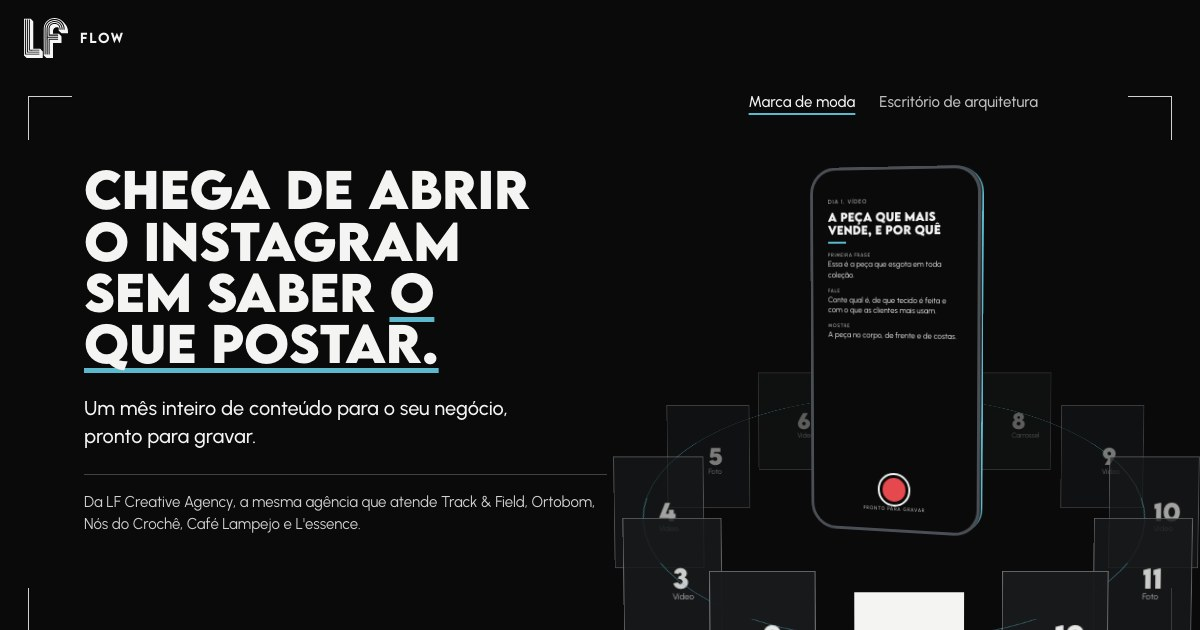
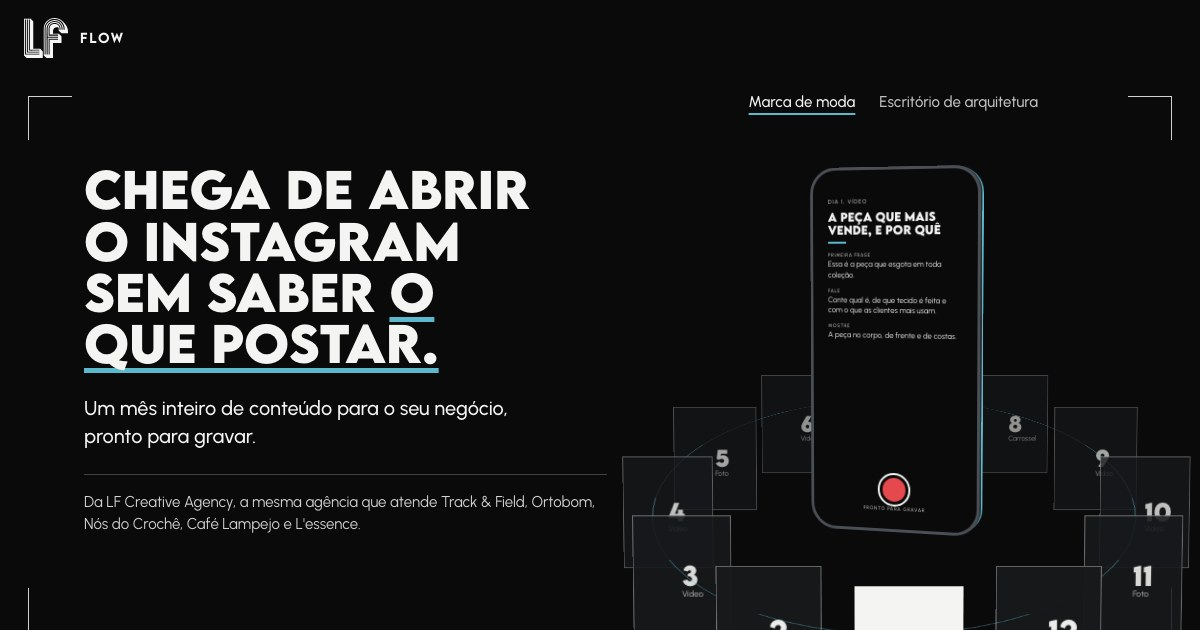
LP do LF Flow: indicação em cartões 3D, botão da abertura leva aos planos, barra fixa no celular e ajustes de acessibilidade

diff --git a/flow/flow.js b/flow/flow.js
@@ -63,7 +63,7 @@ document.addEventListener('DOMContentLoaded', () => {
 
   // ---- A órbita ----
   // Os 12 cartões giram em volta do celular. O dia escolhido vem para a frente e o roteiro dele aparece na tela.
-  // Sozinha, a órbita avança um dia a cada 3,2 s; quando a pessoa escolhe um dia, ela espera 15 s antes de voltar a andar.
+  // Sozinha, a órbita avança um dia a cada 3,2 s, dá uma volta e para. Quando a pessoa escolhe um dia, ela assume o controle.
   let dia = 0, escolhe = (i) => { dia = i; mostra(i); };
   const orbita = () => {
     const cena = document.getElementById('orbita');
@@ -71,7 +71,7 @@ document.addEventListener('DOMContentLoaded', () => {
     const cartoes = [...grade.querySelectorAll('.dia')];
     const n = cartoes.length, inclina = 72 * Math.PI / 180;
     const parado = window.matchMedia('(prefers-reduced-motion: reduce)').matches;
-    let pos = 0, visivel = true, pausaAte = 0, t0 = performance.now(), ultimoPasso = t0, raio = 150;
+    let pos = 0, visivel = true, pausaAte = 0, t0 = performance.now(), ultimoPasso = t0, raio = 150, passosSozinha = 0, sozinha = true;
     const mede = () => { raio = Math.min(cena.clientWidth * (cena.clientWidth < 420 ? .47 : .56), cena.clientHeight * .5); cena.style.setProperty('--raio', `${raio.toFixed(0)}px`); };
     const sai = (x) => 1 - Math.pow(1 - Math.min(1, Math.max(0, x)), 3);
     const desenha = (agora) => {
@@ -83,7 +83,7 @@ document.addEventListener('DOMContentLoaded', () => {
         const a = Math.PI / 2 + (i - pos) * (2 * Math.PI / n);
         const x = Math.cos(a) * raio * entrada, p = Math.sin(a) * raio * entrada;
         c.style.transform = `translate3d(${x.toFixed(1)}px, ${(p * Math.cos(inclina)).toFixed(1)}px, ${(p * Math.sin(inclina)).toFixed(1)}px)`;
-        c.style.opacity = (entrada * (.3 + .7 * (Math.sin(a) + 1) / 2)).toFixed(2);
+        c.style.opacity = (entrada * (.55 + .45 * (Math.sin(a) + 1) / 2)).toFixed(2);
       });
       fone.style.setProperty('--fy', `${(-16 + (parado ? 0 : Math.sin(t * .45) * 7) + (1 - entrada) * 70).toFixed(2)}deg`);
       fone.style.setProperty('--sobe', `${((1 - entrada) * 90).toFixed(1)}px`);
@@ -91,14 +91,14 @@ document.addEventListener('DOMContentLoaded', () => {
     };
     const laco = (agora) => {
       if (visivel && !document.hidden) {
-        if (!parado && agora > pausaAte && agora - ultimoPasso > 3200) { ultimoPasso = agora; dia = (dia + 1) % n; mostra(dia); }
+        if (!parado && sozinha && agora > pausaAte && agora - ultimoPasso > 3200) { ultimoPasso = agora; dia = (dia + 1) % n; mostra(dia); passosSozinha += 1; if (passosSozinha >= n) sozinha = false; }
         desenha(agora);
       }
       if (!parado) requestAnimationFrame(laco);
     };
     escolhe = (i, daPessoa) => {
       dia = i; mostra(i);
-      if (daPessoa) pausaAte = performance.now() + 15000;
+      if (daPessoa) sozinha = false;
       if (parado) desenha(performance.now());
     };
     cena.addEventListener('pointerenter', () => { pausaAte = Math.max(pausaAte, performance.now() + 4000); });
@@ -113,7 +113,7 @@ document.addEventListener('DOMContentLoaded', () => {
     mes.forEach((item, i) => {
       const botao = Object.assign(document.createElement('button'), { type: 'button', className: 'dia' });
       botao.setAttribute('aria-pressed', 'false');
-      botao.setAttribute('aria-label', `Dia ${i + 1}, ${item.tipo}: ${item.titulo}`);
+      botao.setAttribute('aria-label', `${i + 1} ${item.tipo}. ${item.titulo}`);
       botao.append(
         Object.assign(document.createElement('span'), { className: 'dia-numero', textContent: String(i + 1) }),
         Object.assign(document.createElement('span'), { textContent: item.tipo }),
@@ -127,7 +127,7 @@ document.addEventListener('DOMContentLoaded', () => {
     trocas.forEach((b) => b.addEventListener('click', () => {
       mes = meses[b.dataset.mes];
       trocas.forEach((o) => o.setAttribute('aria-pressed', String(o === b)));
-      grade.querySelectorAll('.dia').forEach((d, i) => d.setAttribute('aria-label', `Dia ${i + 1}, ${mes[i].tipo}: ${mes[i].titulo}`));
+      grade.querySelectorAll('.dia').forEach((d, i) => d.setAttribute('aria-label', `${i + 1} ${mes[i].tipo}. ${mes[i].titulo}`));
       escolhe(0, true);
     }));
   }
@@ -141,7 +141,7 @@ document.addEventListener('DOMContentLoaded', () => {
     const semMovimento = window.matchMedia('(prefers-reduced-motion: reduce)').matches;
     const largo = window.matchMedia('(min-width: 1024px)');
     const atual = document.getElementById('recebe-atual');
-    let passo = 0, pausa = 0, naTela = false;
+    let passo = 0, pausa = 0, naTela = false, trocas = 0;
     const ativa = (i) => {
       passo = i;
       itens.forEach((el, n) => el.classList.toggle('on', n === i));
@@ -151,13 +151,13 @@ document.addEventListener('DOMContentLoaded', () => {
     };
     entregas.classList.add('passo-a-passo');
     ativa(0);
-    itens.forEach((el, i) => el.addEventListener('click', () => { ativa(i); pausa = performance.now() + 12000; }));
+    itens.forEach((el, i) => el.addEventListener('click', () => { ativa(i); pausa = Infinity; }));
     if ('IntersectionObserver' in window) {
       const meio = new IntersectionObserver((es) => es.forEach((e) => { if (e.isIntersecting && largo.matches) ativa(itens.indexOf(e.target)); }), { rootMargin: '-45% 0px -45% 0px' });
       itens.forEach((el) => meio.observe(el));
       new IntersectionObserver(([e]) => { naTela = e.isIntersecting; }, { threshold: .25 }).observe(entregas);
     }
-    if (!semMovimento) setInterval(() => { if (!largo.matches && naTela && !document.hidden && performance.now() > pausa) ativa((passo + 1) % itens.length); }, 2800);
+    if (!semMovimento) setInterval(() => { if (!largo.matches && naTela && !document.hidden && performance.now() > pausa && trocas < itens.length * 2) { trocas += 1; ativa((passo + 1) % itens.length); } }, 2800);
   }
 
   // ---- Aviso de cookies e Meta Pixel ----
@@ -272,6 +272,30 @@ document.addEventListener('DOMContentLoaded', () => {
     });
   }, { rootMargin: '0px 0px -10% 0px', threshold: 0.1 });
   document.querySelectorAll('.revela, .entra').forEach((el) => observador.observe(el));
+
+  // Indicação: tocar no cartão N vira os N primeiros e mostra o que a pessoa ganha (regras dos termos, cláusula 12).
+  // Quando a seção entra na tela, os três viram sozinhos uma vez, para mostrar o melhor caso.
+  const amigos = document.getElementById('amigos');
+  if (amigos) {
+    const cartoes = [...amigos.querySelectorAll('.amigo')], resultado = document.getElementById('amigos-resultado');
+    const frases = [
+      'Toque em um cartão para ver o que você ganha.',
+      '1 amigo: você ganha 1 mês grátis quando ele pagar o segundo mês.',
+      '2 amigos: são 2 meses grátis para você.',
+      '3 amigos ativos ao mesmo tempo: o seu Flow sai de graça enquanto os três ficarem.',
+    ];
+    let quantos = 0;
+    const marca = (n) => {
+      quantos = n;
+      cartoes.forEach((c, i) => c.setAttribute('aria-pressed', String(i < n)));
+      resultado.textContent = frases[n];
+    };
+    cartoes.forEach((c, i) => c.addEventListener('click', () => marca(quantos === i + 1 ? i : i + 1)));
+    if ('IntersectionObserver' in window) {
+      const olho = new IntersectionObserver(([e]) => { if (!e.isIntersecting) return; olho.disconnect(); setTimeout(() => { if (quantos === 0) marca(3); }, 500); }, { threshold: .6 });
+      olho.observe(amigos);
+    }
+  }
 
   // Garantia: o 7 ganha espessura (camadas empilhadas para trás) e gira conforme a seção atravessa a tela
   const sete = document.querySelector('#sete .sete-n');

diff --git a/flow/flow.css b/flow/flow.css
@@ -65,7 +65,7 @@ h1, h2, h3 {
   text-transform: uppercase; line-height: 1.08; letter-spacing: -0.005em; text-wrap: balance;
 }
 h1 { font-size: clamp(1.625rem, 1rem + 2.7vw, 3.25rem); line-height: 1.06; }
-h2 { font-size: clamp(1.5rem, 1rem + 2.2vw, 2.875rem); }
+h2 { font-size: clamp(1.75rem, 1rem + 2.2vw, 2.875rem); }
 h3 { font-size: 1.125rem; font-weight: 500; letter-spacing: .02em; line-height: 1.3; }
 p { text-wrap: pretty; }
 
@@ -132,6 +132,9 @@ a:focus-visible, button:focus-visible, summary:focus-visible { outline: 2px soli
 .btn-conversa svg { flex: none; }
 [data-tom="escuro"] .btn-conversa { background: var(--cor-gelo); color: var(--cor-preto); border-color: var(--cor-gelo); }
 [data-conversa="off"] .btn-conversa { opacity: 0; visibility: hidden; pointer-events: none; transition: opacity 350ms ease, visibility 0s 350ms; }
+
+/* Barra fixa do celular (no computador fica o botão flutuante de WhatsApp) */
+.barra-planos { display: none; }
 
 /* ---------- Visor de câmera: cantos de enquadramento e REC ---------- */
 .hud { position: absolute; inset: 0; pointer-events: none; color: var(--tinta); font: 500 .75rem/1 ui-monospace, 'SF Mono', Menlo, monospace; letter-spacing: .12em; }
@@ -286,6 +289,24 @@ a:focus-visible, button:focus-visible, summary:focus-visible { outline: 2px soli
 .pares p, .indicacao-texto { max-width: 34rem; }
 .indicacao-texto { font-size: 1.125rem; color: var(--tinta); }
 
+/* Indicação: três cartões que viram em 3D. Frente: quantos amigos. Verso: o que a pessoa ganha. */
+#indicacao h2 + .indicacao-texto { margin-top: var(--e-3); }
+.amigos { display: grid; gap: var(--e-3); }
+.amigos-linha { display: grid; grid-template-columns: repeat(3, 1fr); gap: 12px; perspective: 1100px; max-width: 34rem; }
+.amigo { aspect-ratio: 4 / 5; padding: 0; background: none; border: 0; cursor: pointer; color: inherit; }
+.amigo-vira { position: relative; display: block; width: 100%; height: 100%; transform-style: preserve-3d; transition: transform 700ms var(--curva); }
+.amigo[aria-pressed="true"] .amigo-vira { transform: rotateY(180deg); }
+.amigo:nth-child(2) .amigo-vira { transition-delay: 90ms; }
+.amigo:nth-child(3) .amigo-vira { transition-delay: 180ms; }
+.amigo-frente, .amigo-verso { position: absolute; inset: 0; display: flex; flex-direction: column; justify-content: space-between; align-items: flex-start; padding: 12%; text-align: left; backface-visibility: hidden; -webkit-backface-visibility: hidden; font-size: clamp(.8125rem, .6rem + .6vw, 1rem); line-height: 1.2; }
+.amigo-frente { background: rgba(244, 244, 242, .06); border: 1px solid rgba(244, 244, 242, .42); color: var(--tinta-2); }
+.amigo-verso { transform: rotateY(180deg); background: var(--cor-gelo); color: var(--cor-preto); font-weight: 500; }
+.amigo b { font-family: var(--fonte-titulo); font-weight: 700; font-size: clamp(1.75rem, 1rem + 3vw, 3.25rem); line-height: 1; color: var(--tinta); }
+.amigo-verso b { color: var(--cor-preto); }
+.amigo:nth-child(3) .amigo-verso b { font-size: clamp(1.25rem, .8rem + 2vw, 2.375rem); background: linear-gradient(var(--cor-ciano), var(--cor-ciano)) 0 100% / 100% .12em no-repeat; padding-bottom: .12em; }
+.amigo:hover .amigo-frente { border-color: var(--cor-gelo); }
+.amigos-resultado { min-height: 3.2em; max-width: 30rem; font-size: 1.125rem; color: var(--tinta); }
+
 /* Garantia: um 7 em relevo, com espessura de verdade (camadas empilhadas em profundidade), que gira com a rolagem */
 .garantia-grade { display: grid; gap: var(--e-4); align-items: center; }
 .sete { display: flex; align-items: flex-end; gap: var(--e-2); perspective: 900px; justify-self: start; }
@@ -416,8 +437,16 @@ a:focus-visible, button:focus-visible, summary:focus-visible { outline: 2px soli
   .hud-rec { top: 30px; left: auto; right: var(--margem); transform: none; }
   .cabecalho { padding: 0 var(--margem); height: 68px; }
   .marca img { height: 34px; }
-  .btn-conversa { right: 16px; bottom: 36px; width: 48px; min-height: 48px; padding: 0; gap: 0; justify-content: center; }
-  .btn-conversa span { position: absolute; width: 1px; height: 1px; overflow: hidden; clip-path: inset(50%); }
+  .btn-conversa, .passos { display: none !important; }   /* no celular a barra dos planos ocupa o pé */
+  .barra-planos {
+    position: fixed; z-index: 61; left: 0; right: 0; bottom: 0; display: flex; align-items: center; justify-content: space-between; gap: var(--e-2);
+    padding: 8px 12px 8px var(--margem); background: var(--cor-gelo); color: var(--cor-preto); border-top: 1px solid var(--cor-preto);
+    font-size: .9375rem; font-weight: 500; transition: transform 350ms var(--curva), visibility 0s;
+  }
+  .barra-planos .btn { background: var(--cor-preto); color: var(--cor-gelo); border-color: var(--cor-preto); }
+  .barra-planos .btn::after { content: "\2193"; }
+  .barra-planos a:focus-visible { outline: 2px solid var(--cor-preto); outline-offset: 2px; }
+  [data-conversa="off"] .barra-planos { transform: translateY(100%); visibility: hidden; transition: transform 350ms var(--curva), visibility 0s 350ms; }
   .passos { left: 12px; right: 12px; bottom: 6px; }
   .passos::before { top: 24px; bottom: -6px; }
   .marca { transition: opacity 250ms ease; }

diff --git a/flow/index.html b/flow/index.html
@@ -29,7 +29,7 @@
 <link rel="preload" href="assets/fonts/lemonmilk-bold.woff2" as="font" type="font/woff2" crossorigin>
 <link rel="preload" href="assets/fonts/urbanist-latin.woff2" as="font" type="font/woff2" crossorigin>
 
-<link rel="stylesheet" href="flow.css?v=2026-10-13m">
+<link rel="stylesheet" href="flow.css?v=2026-10-13o">
 <!-- O Meta Pixel "LP FLOW" (2266283787124186) é carregado pelo flow.js, só depois do aceite no aviso de cookies. -->
 </head>
 <body>
@@ -44,6 +44,12 @@
   <a class="btn btn-conversa" data-cta="topo_whatsapp" href="https://wa.me/5521990939118?text=Oi!%20Vi%20a%20p%C3%A1gina%20do%20LF%20Flow%20e%20quero%20saber%20como%20come%C3%A7ar." target="_blank" rel="noopener"><svg viewBox="0 0 24 24" width="18" height="18" aria-hidden="true"><path fill="none" stroke="currentColor" stroke-width="1.8" stroke-linejoin="round" d="M4 5h16v11H10l-6 4z"/></svg><span>Falar no WhatsApp</span></a>
 </header>
 
+<!-- Barra fixa do celular: leva aos planos. Some na abertura, nos planos e no fechamento, que já têm botão. -->
+<div class="barra-planos">
+  <span>A partir de R$ 697 por mês</span>
+  <a class="btn btn-compacto" data-cta="barra_planos" href="#planos">Ver planos</a>
+</div>
+
 <main id="conteudo">
 
 <!-- 1. ABERTURA -->
@@ -54,7 +60,7 @@
       <h1>Chega de abrir o Instagram sem saber <em>o que postar.</em></h1>
       <p class="apoio">Um mês inteiro de conteúdo para o seu negócio, pronto para gravar.</p>
       <p class="detalhe">Todo mês você recebe as ideias, os roteiros e as legendas do seu Instagram, feitos para o seu negócio. É só gravar no celular e publicar.</p>
-      <a class="btn" data-cta="abertura_whatsapp" href="https://wa.me/5521990939118?text=Oi!%20Vi%20a%20p%C3%A1gina%20do%20LF%20Flow%20e%20quero%20saber%20como%20come%C3%A7ar." target="_blank" rel="noopener">Quero meu mês de conteúdo</a>
+      <a class="btn" data-cta="abertura_planos" href="#planos">Quero meu mês de conteúdo</a>
       <p class="condicoes">A partir de R$ 697 por mês. Sem fidelidade. 7 dias de garantia.</p>
       <p class="credencial">Da LF Creative Agency, a mesma agência que atende Track &amp; Field, Ortobom, Nós do Crochê, Café Lampejo e L'essence.</p>
     </div>
@@ -275,11 +281,21 @@
   </div>
 </section>
 
-<!-- 8. INDICAÇÃO -->
+<!-- 8. INDICAÇÃO: três cartões que viram conforme o número de amigos, mostrando o que a pessoa ganha -->
 <section class="cena cena-escura cena-baixa" id="indicacao">
   <div class="container duas">
-    <h2 class="revela">Indique um amigo e ganhe <em>um mês</em></h2>
-    <p class="indicacao-texto revela">Quem assina pelo seu link ganha R$ 200 de desconto no primeiro mês. Quando ele pagar o segundo, você ganha um mês grátis. Com três amigos ativos, o seu Flow sai de graça.</p>
+    <div class="revela">
+      <h2>Indique um amigo e ganhe <em>um mês</em></h2>
+      <p class="indicacao-texto">Quem assina pelo seu link ganha R$ 200 de desconto no primeiro mês. Quando ele pagar o segundo, você ganha um mês grátis. Com três amigos ativos, o seu Flow sai de graça.</p>
+    </div>
+    <div class="amigos" id="amigos">
+      <div class="amigos-linha" role="group" aria-label="Quantos amigos você indicou">
+        <button type="button" class="amigo" aria-pressed="false" aria-label="1 amigo"><span class="amigo-vira"><span class="amigo-frente"><b>1</b>amigo</span><span class="amigo-verso"><b>1</b>mês grátis</span></span></button>
+        <button type="button" class="amigo" aria-pressed="false" aria-label="2 amigos"><span class="amigo-vira"><span class="amigo-frente"><b>2</b>amigos</span><span class="amigo-verso"><b>2</b>meses grátis</span></span></button>
+        <button type="button" class="amigo" aria-pressed="false" aria-label="3 amigos"><span class="amigo-vira"><span class="amigo-frente"><b>3</b>amigos</span><span class="amigo-verso"><b>R$ 0</b>Flow de graça</span></span></button>
+      </div>
+      <p class="amigos-resultado" id="amigos-resultado" aria-live="polite">Toque em um cartão para ver o que você ganha.</p>
+    </div>
   </div>
 </section>
 
@@ -358,6 +374,6 @@
   </div>
 </div>
 
-<script src="flow.js?v=2026-10-13m" defer></script>
+<script src="flow.js?v=2026-10-13o" defer></script>
 </body>
 </html>

diff --git a/flow/privacidade/index.html b/flow/privacidade/index.html
@@ -9,7 +9,7 @@
 <link rel="canonical" href="https://lfcreative.com.br/flow/privacidade/">
 <link rel="icon" href="../../favicon.ico" sizes="any">
 <link rel="icon" type="image/png" sizes="32x32" href="../../favicon-32x32.png">
-<link rel="stylesheet" href="../flow.css?v=2026-10-13m">
+<link rel="stylesheet" href="../flow.css?v=2026-10-13o">
 </head>
 <body>
 <a class="pular" href="#conteudo">Pular para o conteúdo</a>

diff --git a/flow/obrigado/index.html b/flow/obrigado/index.html
@@ -11,7 +11,7 @@
 <link rel="canonical" href="https://lfcreative.com.br/flow/obrigado/">
 <link rel="icon" href="../../favicon.ico" sizes="any">
 <link rel="icon" type="image/png" sizes="32x32" href="../../favicon-32x32.png">
-<link rel="stylesheet" href="../flow.css?v=2026-10-13m">
+<link rel="stylesheet" href="../flow.css?v=2026-10-13o">
 </head>
 <body>
 <a class="pular" href="#conteudo">Pular para o conteúdo</a>

diff --git a/flow/termos/index.html b/flow/termos/index.html
@@ -9,7 +9,7 @@
 <link rel="canonical" href="https://lfcreative.com.br/flow/termos/">
 <link rel="icon" href="../../favicon.ico" sizes="any">
 <link rel="icon" type="image/png" sizes="32x32" href="../../favicon-32x32.png">
-<link rel="stylesheet" href="../flow.css?v=2026-10-13m">
+<link rel="stylesheet" href="../flow.css?v=2026-10-13o">
 </head>
 <body>
 <a class="pular" href="#conteudo">Pular para o conteúdo</a>
